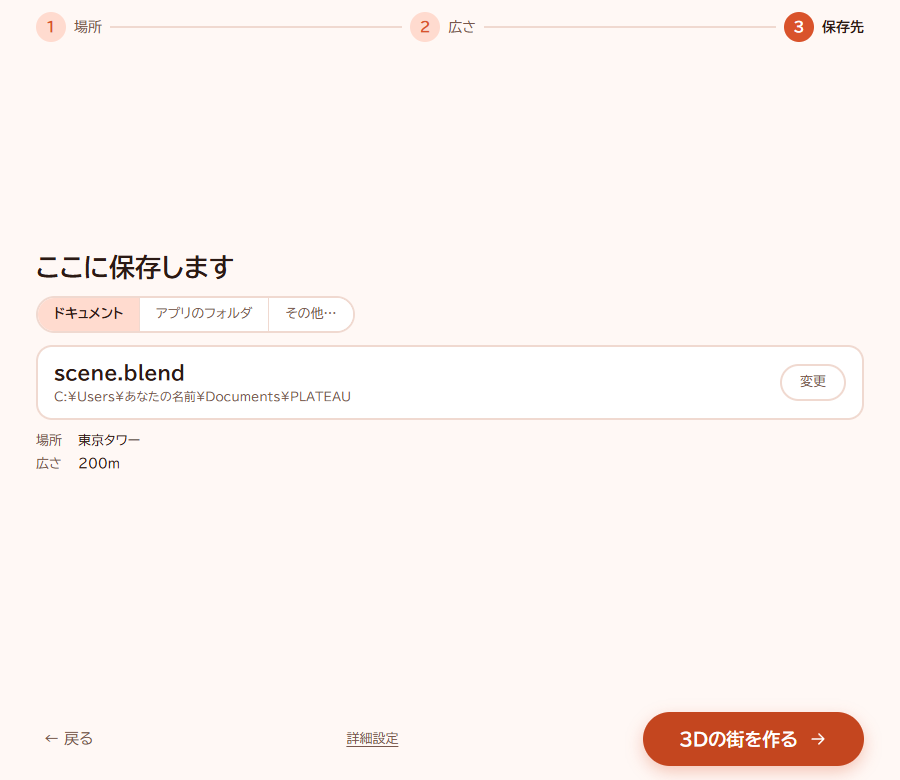
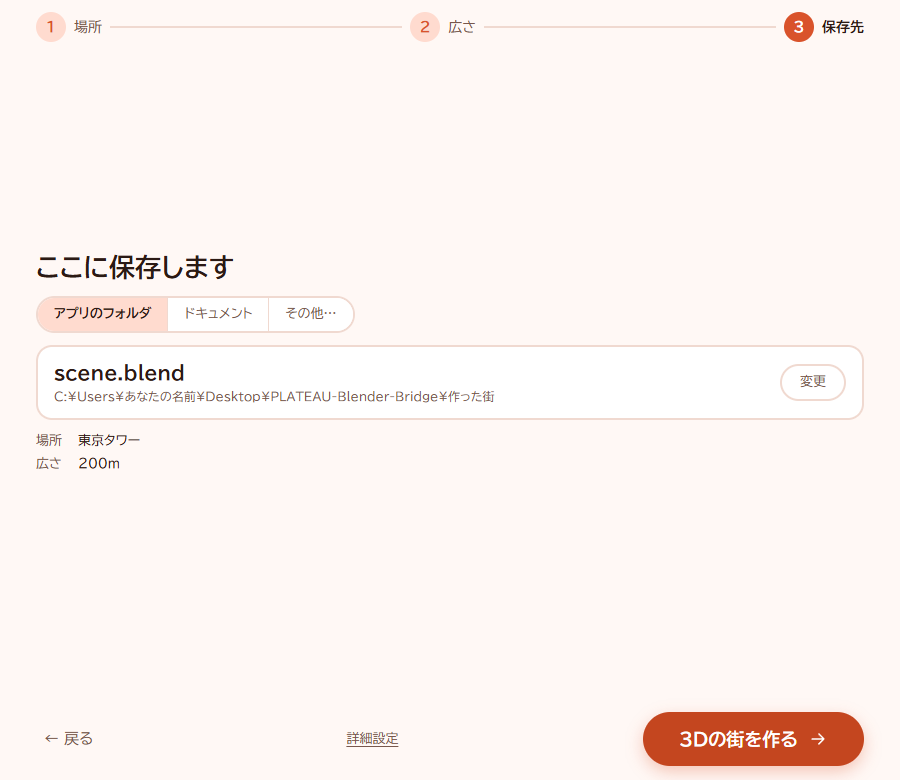
v0.11.2: 保存先の既定をアプリのフォルダ（作った街）にし、説明書の画像を撮り直す
Organ: claude

Changed region(s): [[0.0622, 0.3692, 0.28, 0.4308], [0.2489, 0.4923, 0.56, 0.5231]]

diff --git a/packaging/user_docs/使い方ガイド.html b/packaging/user_docs/使い方ガイド.html
@@ -112,8 +112,8 @@
 
 <h3>質問3：保存先</h3>
 <figure>
-  <img src="ガイドの画像/04-output.png" alt="保存先の画面。ドキュメントのPLATEAUフォルダに保存すると表示されている">
-  <figcaption>そのままなら「ドキュメント\PLATEAU\scene.blend」に保存されます。「変更」で別の場所も選べます。</figcaption>
+  <img src="ガイドの画像/04-output.png" alt="保存先の画面。アプリのフォルダの中の「作った街」に保存すると表示されている">
+  <figcaption>そのままなら、このフォルダの中の「作った街」に <code>scene.blend</code> として保存されます。「ドキュメント」や「その他…」で別の場所も選べます。</figcaption>
 </figure>
 <p>「<b>3Dの街を作る</b>」を押すと作り始めます。</p>
 
@@ -176,7 +176,8 @@
 </ul>
 
 <h2 id="cleanup">9. 片付け方</h2>
-<p>このフォルダを消すだけです。ログなども中の <code>data</code> にあるので、一緒に消えます。作った街は、3つ目の質問で選んだ保存先に残ります。</p>
+<p>このフォルダを消すだけです。ログなども中の <code>data</code> にあるので、一緒に消えます。</p>
+<p class="warn">保存先をそのままにしていた場合、作った街もこのフォルダの「作った街」に入っています。要る物は、消す前に別の場所へ移してください。</p>
 <p>前の版（2026年11月5日までに配った物）を使ったことがある人は、<span class="path">%LOCALAPPDATA%\PLATEAU-Blender-Bridge</span> が残っています。要らなければ消してください（エクスプローラーのアドレス欄にこの1行を貼り付けて Enter で開けます）。</p>
 
 <footer>

diff --git a/plateau_blend/web/index.html b/plateau_blend/web/index.html
@@ -87,8 +87,8 @@
         <div class="wz" data-wz="3" hidden>
           <h1 class="q">ここに保存します</h1>
           <div class="saveloc" id="saveloc" role="radiogroup" aria-label="保存場所">
-            <button type="button" role="radio" data-kind="documents" aria-checked="true">ドキュメント</button>
-            <button type="button" role="radio" data-kind="app" aria-checked="false">アプリのフォルダ</button>
+            <button type="button" role="radio" data-kind="app" aria-checked="true">アプリのフォルダ</button>
+            <button type="button" role="radio" data-kind="documents" aria-checked="false">ドキュメント</button>
             <button type="button" role="radio" data-kind="other" aria-checked="false">その他…</button>
           </div>
           <div class="file">

diff --git a/plateau_blend/web/app.js b/plateau_blend/web/app.js
@@ -22,7 +22,7 @@ const state = {
   blenderOk: false,
   advReturn: { view: 'input', step: 1 },
   plan: null,
-  saveKind: 'documents',
+  saveKind: 'app',
   inspect: { ok: false, explicit_size_m: null, error: '' },
   placeRequest: null,
   placeTimer: 0,
@@ -90,6 +90,7 @@ async function start() {
     console.error('initial_state failed', error);
   }
   state.form.output = state.meta.default_output || '';
+  paintSaveLocation(state.meta.default_kind || 'documents');
   state.form.size = state.meta.default_size || '400';
   $('foot-version').textContent = state.meta.version ? 'v' + state.meta.version : '';
   renderPlaces();

diff --git a/plateau_blend/web_gui.py b/plateau_blend/web_gui.py
@@ -80,8 +80,20 @@ def _gui():
     return _GUI
 
 
-def _default_output() -> Path:
+def _documents_output() -> Path:
     return Path.home() / 'Documents' / 'PLATEAU' / 'scene.blend'
+
+
+def _default_kind() -> str:
+    """ポータブルアプリなので、既定はアプリのフォルダ。書けない時（Program Files など）だけドキュメント。
+    ``作った街`` はまだ作らず、親（exe のフォルダ）に書けるかだけを見る。"""
+    return 'app' if _folder_writable(_app_folder().parent) else 'documents'
+
+
+def _default_output() -> Path:
+    if _default_kind() == 'app':
+        return _app_folder() / _documents_output().name
+    return _documents_output()
 
 
 def _app_folder() -> Path:
@@ -342,6 +354,7 @@ class BridgeApi:
                  'hint': '例: 5235xxxx（6/8/9/10桁のメッシュ番号）'},
             ],
             'default_output': str(_default_output()),
+            'default_kind': _default_kind(),
             'outputs': self.output_choices(),
             'min_size': [730, 580],
             'cancelled_message': gui.CANCELLED_MESSAGE,
@@ -473,7 +486,7 @@ class BridgeApi:
 
     def output_choices(self) -> dict:
         """保存場所の切替に出す2つの候補（フォルダ）。"""
-        return {'documents': str(_default_output().parent), 'app': str(_app_folder())}
+        return {'documents': str(_documents_output().parent), 'app': str(_app_folder())}
 
     def use_output_folder(self, kind: str | None = None, current: str | None = None) -> dict | None:
         """``documents`` / ``app`` へ保存場所を切り替える。書けなければドキュメントへ戻す。"""
@@ -481,15 +494,15 @@ class BridgeApi:
         if kind not in ('documents', 'app'):
             return None
         raw = str(current or '').strip()
-        name = Path(raw).name if raw else _default_output().name
+        name = Path(raw).name if raw else _documents_output().name
         if not name:
-            name = _default_output().name
+            name = _documents_output().name
         if not name.lower().endswith('.blend'):
             name += '.blend'
-        folder = _default_output().parent if kind == 'documents' else _app_folder()
+        folder = _documents_output().parent if kind == 'documents' else _app_folder()
         if _folder_writable(folder):
             return {'output': str(folder / name), 'folder': str(folder), 'kind': kind}
-        fallback = _default_output().parent
+        fallback = _documents_output().parent
         self._log(f'[OUTPUT] {folder} には保存できません。ドキュメントを使ってください')
         result = {'error': 'このフォルダには保存できません。ドキュメントを使ってください',
                   'kind': 'documents'}

diff --git a/tests/test_web_gui.py b/tests/test_web_gui.py
@@ -420,7 +420,7 @@ class OutputFolderTests(BridgeTestCase):
     def test_switches_to_documents(self):
         api = BridgeApi()
         documents = Path(self._tmp.name) / 'Documents' / 'PLATEAU'
-        with patch.object(web_gui, '_default_output', return_value=documents / 'scene.blend'):
+        with patch.object(web_gui, '_documents_output', return_value=documents / 'scene.blend'):
             result = api.use_output_folder('documents', str(self.output))
         self.assertEqual(result['output'], str(documents / 'scene.blend'))
 
@@ -430,12 +430,28 @@ class OutputFolderTests(BridgeTestCase):
         blocked.write_bytes(b'')
         documents = Path(self._tmp.name) / 'Documents' / 'PLATEAU'
         with patch.object(web_gui, '_app_folder', return_value=blocked / '作った街'), \
-             patch.object(web_gui, '_default_output', return_value=documents / 'scene.blend'):
+             patch.object(web_gui, '_documents_output', return_value=documents / 'scene.blend'):
             result = api.use_output_folder('app', str(self.output))
         self.assertIn('error', result)
         self.assertIn('ドキュメント', result['error'])
         self.assertEqual(result['output'], str(documents / 'scene.blend'))
         self.assertEqual(result['kind'], 'documents')
+
+    def test_default_is_the_app_folder_when_writable(self):
+        app = Path(self._tmp.name) / '作った街'
+        with patch.object(web_gui, '_app_folder', return_value=app):
+            self.assertEqual(web_gui._default_kind(), 'app')
+            self.assertEqual(web_gui._default_output(), app / 'scene.blend')
+        self.assertFalse(app.exists())  # 既定を決めるだけでは作らない
+
+    def test_default_falls_back_to_documents_when_the_app_folder_is_read_only(self):
+        blocked = Path(self._tmp.name) / 'blocked'
+        blocked.write_bytes(b'')
+        documents = Path(self._tmp.name) / 'Documents' / 'PLATEAU' / 'scene.blend'
+        with patch.object(web_gui, '_app_folder', return_value=blocked / '作った街'), \
+             patch.object(web_gui, '_documents_output', return_value=documents):
+            self.assertEqual(web_gui._default_kind(), 'documents')
+            self.assertEqual(web_gui._default_output(), documents)
 
     def test_unknown_kind_is_refused(self):
         self.assertIsNone(BridgeApi().use_output_folder('other', 'scene.blend'))

diff --git a/plateau_blend/auto_cli.py b/plateau_blend/auto_cli.py
@@ -30,7 +30,8 @@ def _flag_path(argv,flag):
 
 def _default_result(out):
     if out:return out.with_name(out.stem+'.result.json')
-    return Path.home()/'Documents'/'PLATEAU'/'cli_result.json'
+    from .app_paths import data_dir
+    return data_dir()/'cli_result.json'
 
 def _result_path(args,out):
     return args.result_json or _default_result(out)
@@ -67,7 +68,7 @@ def main(argv=None):
     p.add_argument('--diagnose',action='store_true',help='report installed Blender/CLI versions and free disk space')
     p.add_argument('--no-clip',action='store_true',help='include full source mesh, skip bbox crop')
     p.add_argument('--axis',choices=['auto','xyz','yxz'],default='auto')
-    p.add_argument('--result-json',type=Path,help='machine-readable result JSON (default: next to --output, else Documents/PLATEAU/cli_result.json)')
+    p.add_argument('--result-json',type=Path,help='machine-readable result JSON (default: next to --output, else data/cli_result.json next to the app)')
     started=_now()
     try:args=p.parse_args(argv)
     except SystemExit as exc:

diff --git a/plateau_blend/auto_gui.py b/plateau_blend/auto_gui.py
@@ -169,7 +169,8 @@ class AutoGui(tk.Tk):
         self.size_radios=self.radio_group(size,self.size,[('小さめ 200m','200'),('標準 400m','400'),('広め 800m','800'),('入力欄の指定を使う','input')])
         save=ttk.LabelFrame(container,text='③ 保存先',padding=8);save.grid(row=4,column=0,sticky='ew');save.columnconfigure(0,weight=1)
         self.blender_var=tk.StringVar();self.nusamai_var=tk.StringVar()
-        self.output_var=tk.StringVar(value=str(Path.home()/'Documents'/'PLATEAU'/'scene.blend'))
+        from .web_gui import _default_output  # 新画面と同じ既定（アプリのフォルダ。書けなければドキュメント）
+        self.output_var=tk.StringVar(value=str(_default_output()))
         self.output_name=tk.StringVar(value=Path(self.output_var.get()).name)
         self.output_var.trace_add('write',lambda *_:self.output_name.set(Path(self.output_var.get()).name))
         ttk.Label(save,textvariable=self.output_name,font=('Yu Gothic UI',11)).grid(row=0,column=0,sticky='w')

diff --git a/plateau_blend/__init__.py b/plateau_blend/__init__.py
@@ -1,2 +1,2 @@
 """PLATEAU → Blender Bridge automatic acquisition and scene generation."""
-__version__ = "0.11.1"
+__version__ = "0.11.2"

diff --git a/README.md b/README.md
@@ -26,7 +26,7 @@
 
 `plateau_blend/web/` の手書き HTML/CSS/JS を、アプリ内の小さな HTTP サーバー（`plateau_blend/web_server.py`、`127.0.0.1` のみ・起動ごとの token つき）から配り、Microsoft Edge のアプリ窓（`--app`）で開きます。画面から Python を呼ぶ面は `plateau_blend/web_gui.py` の `BridgeApi` です。
 
-- ポータブルアプリなので、アプリが書く物（ログと Edge の専用プロファイル）は exe の隣の `data\` に置き、`%LOCALAPPDATA%` などフォルダの外へは書きません（`plateau_blend/app_paths.py`）。フォルダが書き込めない時だけ一時フォルダを使います。開発時は repo 直下の `data\`（git 管理外）。
+- ポータブルアプリなので、アプリが書く物（ログと Edge の専用プロファイル）は exe の隣の `data\` に置き、`%LOCALAPPDATA%` などフォルダの外へは書きません（`plateau_blend/app_paths.py`）。フォルダが書き込めない時だけ一時フォルダを使います。開発時は repo 直下の `data\`（git 管理外）。作った街の保存先も、既定は exe の隣の `作った街\`（書けなければ `Documents\PLATEAU`）。
 - Edge は専用プロファイル（`data\edge-profile`）を同期・拡張なしで開きます。
 - 窓を閉じると、画面の `pagehide` からの合図でアプリも終わります。
 - 新画面を開けない時は Tk の予備画面（`plateau_blend/auto_gui.py`）へ切り替わり、理由を `data\logs\gui-fallback-*.log` に残します。

diff --git a/CHANGELOG.md b/CHANGELOG.md
@@ -1,3 +1,9 @@
+# v0.11.2 — 保存先の既定をアプリのフォルダに（2026-11-06）
+
+- 作った街の保存先の既定を `Documents\PLATEAU\scene.blend` から、exe の隣の `作った街\scene.blend` へ変えた（新画面・予備の Tk 画面とも）。フォルダが書き込めない時だけドキュメントにする。3問目の並びも「アプリのフォルダ」を先頭にした。
+- CLI で `--output` を省いた時の結果 JSON も `data\cli_result.json` へ。
+- 説明書：保存先の説明と画像を差し替え、片付けの節に「消す前に作った街を移す」を足した。
+
 # v0.11.1 — ポータブル化：フォルダの外へ書かない（2026-11-06）
 
 - ログ（`gui-fallback-*.log`・`crash-*.log`）と Edge の専用プロファイルを、`%LOCALAPPDATA%\PLATEAU-Blender-Bridge` から exe の隣の `data\` へ移した（`plateau_blend/app_paths.py`）。フォルダごと消せば片付く。フォルダが書き込めない時だけ一時フォルダを使う。
